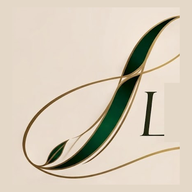
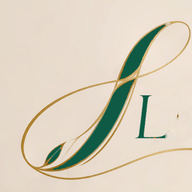
Новый логотип (вариант 10, золото) и тема по умолчанию: изумруд + золото, Playfair Display + Manrope
Логотип: буквы и рисунок прежние, меняются только цвета — лента «I», ILM и
надпись EDUCATIONAL PLATFORM изумрудом #0E5A44, ORA, линии и росток золотом.
Заменены все файлы brand/ под теми же именами: полный и обрезанный логотип,
картинка для ссылок (og-default), прозрачный знак для светлой и тёмной шапки,
значки 16–512 и favicon.

Тема по умолчанию (sample-data и globals.css): ivory #FBF3E3, forest #0E5A44,
charcoal #1D211C, champagne #CA9A36, sage #E3EDE6, white #FFFCF5; шрифты
Playfair Display + Manrope. На живом сайте тема берётся из Super Admin — там
значения нужно выставить вручную.

Мелкие доработки: цвета, зашитые в CSS (тени, стекло, градиент первого экрана,
полоса шагов), и золото меток скидок теперь берутся из темы; прежние фирменные
цвета в иллюстрациях, QR-коде, странице ошибки и цветах новых центров и
преподавателей заменены новыми. Каркас и тексты не менялись.

Claude-Session: https://claude.ai/code/session_013enQJNXUD777qyHkADyjY3

diff --git a/apps/web/app/globals.css b/apps/web/app/globals.css
@@ -2,19 +2,19 @@
 
 /* Runtime theme variables — set from Super Admin theme settings via applyTheme() */
 :root {
-  --c-ivory: #F7F5F0;
-  --c-forest: #163C35;
-  --c-charcoal: #202725;
-  --c-champagne: #C8AD7F;
-  --c-sage: #E3EBE5;
-  --c-white: #FFFFFF;
+  --c-ivory: #FBF3E3;
+  --c-forest: #0E5A44;
+  --c-charcoal: #1D211C;
+  --c-champagne: #CA9A36;
+  --c-sage: #E3EDE6;
+  --c-white: #FFFCF5;
   /* Self-hosted @fontsource family names (imported in app/[locale]/layout.tsx); previously set by next/font. */
   --font-cormorant: "Cormorant Garamond";
   --font-playfair: "Playfair Display Variable";
   --font-inter: "Inter Variable";
   --font-manrope: "Manrope Variable";
-  --f-display: var(--font-cormorant), "Cormorant Garamond", Georgia, serif;
-  --f-body: var(--font-inter), "Inter", system-ui, sans-serif;
+  --f-display: var(--font-playfair), "Playfair Display", Georgia, serif;
+  --f-body: var(--font-manrope), "Manrope", system-ui, sans-serif;
   --r-card: 1.25rem;
   --r-control: 0.75rem;
   --ease-out-soft: cubic-bezier(0.22, 0.68, 0.32, 1);
@@ -31,8 +31,8 @@
   --font-body: var(--f-body);
   --radius-card: var(--r-card);
   --radius-control: var(--r-control);
-  --shadow-soft: 0 1px 2px rgba(32, 39, 37, 0.04), 0 18px 50px -30px rgba(22, 60, 53, 0.35);
-  --shadow-lift: 0 2px 4px rgba(32, 39, 37, 0.05), 0 30px 70px -35px rgba(22, 60, 53, 0.45);
+  --shadow-soft: 0 1px 2px color-mix(in srgb, var(--c-charcoal) 4%, transparent), 0 18px 50px -30px color-mix(in srgb, var(--c-forest) 35%, transparent);
+  --shadow-lift: 0 2px 4px color-mix(in srgb, var(--c-charcoal) 5%, transparent), 0 30px 70px -35px color-mix(in srgb, var(--c-forest) 45%, transparent);
   --animate-rise: rise 0.7s cubic-bezier(0.2, 0.7, 0.2, 1) both;
   --animate-fade: fade 0.6s ease both;
   --animate-float: float 9s ease-in-out infinite;
@@ -208,7 +208,7 @@ html.reveal-on .reveal-stagger > .reveal:nth-child(n + 9) { --reveal-delay: 0.64
 
 /* Hero video fallback: slow drifting gradient in brand tones */
 .hero-fallback {
-  background: linear-gradient(120deg, #0f2a25, var(--c-forest), #2a5c50, #0f2a25);
+  background: linear-gradient(120deg, color-mix(in srgb, var(--c-forest) 55%, black), var(--c-forest), color-mix(in srgb, var(--c-forest) 82%, white), color-mix(in srgb, var(--c-forest) 55%, black));
   background-size: 300% 300%;
   animation: heroShift 18s ease infinite;
 }
@@ -252,25 +252,25 @@ html.reveal-on .reveal-stagger > .reveal:nth-child(n + 9) { --reveal-delay: 0.64
    Luxury UI Enhancements
    ─────────────────────────────────────────────────────────────────────────── */
 .glass-panel {
-  background: rgba(247, 245, 240, 0.72);
+  background: color-mix(in srgb, var(--c-ivory) 72%, transparent);
   backdrop-filter: blur(16px);
   -webkit-backdrop-filter: blur(16px);
-  border: 1px solid rgba(200, 173, 127, 0.22);
+  border: 1px solid color-mix(in srgb, var(--c-champagne) 22%, transparent);
 }
 
 .glass-panel-dark {
-  background: rgba(32, 39, 37, 0.75);
+  background: color-mix(in srgb, var(--c-charcoal) 75%, transparent);
   backdrop-filter: blur(16px);
   -webkit-backdrop-filter: blur(16px);
-  border: 1px solid rgba(200, 173, 127, 0.25);
+  border: 1px solid color-mix(in srgb, var(--c-champagne) 25%, transparent);
 }
 
 .glow-champagne {
-  box-shadow: 0 0 35px -8px rgba(200, 173, 127, 0.28);
+  box-shadow: 0 0 35px -8px color-mix(in srgb, var(--c-champagne) 28%, transparent);
 }
 
 .glow-forest {
-  box-shadow: 0 0 40px -10px rgba(22, 60, 53, 0.35);
+  box-shadow: 0 0 40px -10px color-mix(in srgb, var(--c-forest) 35%, transparent);
 }
 
 .luxury-border {
@@ -278,7 +278,7 @@ html.reveal-on .reveal-stagger > .reveal:nth-child(n + 9) { --reveal-delay: 0.64
   background-clip: padding-box, border-box;
   background-origin: padding-box, border-box;
   background-image: linear-gradient(to right, var(--c-white), var(--c-ivory)),
-                    linear-gradient(135deg, rgba(200, 173, 127, 0.5), rgba(22, 60, 53, 0.15), rgba(200, 173, 127, 0.35));
+                    linear-gradient(135deg, color-mix(in srgb, var(--c-champagne) 50%, transparent), color-mix(in srgb, var(--c-forest) 15%, transparent), color-mix(in srgb, var(--c-champagne) 35%, transparent));
 }
 
 @keyframes shimmer {

diff --git a/apps/web/src/components/three/ScrollVideo.tsx b/apps/web/src/components/three/ScrollVideo.tsx
@@ -153,31 +153,31 @@ function PosterIllustration({ progress, poster }: { progress: number; poster?: s
     { d: 'M 300 322 L 300 130', from: 0.5, to: 0.65 },
     { d: 'M 420 322 L 420 130', from: 0.55, to: 0.7 },
     { d: 'M 290 130 L 430 130 L 430 200 L 290 200 Z', from: 0.7, to: 0.88, w: 2.2 },
-    { d: 'M 300 420 L 420 420', from: 0.86, to: 0.95, c: '#C8AD7F', w: 2.4 },
-    { d: 'M 560 420 L 680 420', from: 0.88, to: 0.97, c: '#C8AD7F', w: 2.4 },
+    { d: 'M 300 420 L 420 420', from: 0.86, to: 0.95, c: '#CA9A36', w: 2.4 },
+    { d: 'M 560 420 L 680 420', from: 0.88, to: 0.97, c: '#CA9A36', w: 2.4 },
   ]
   if (poster) return null
   return (
     <svg viewBox="0 0 960 600" className="absolute inset-0 h-full w-full" preserveAspectRatio="xMidYMid slice" aria-hidden="true">
       <defs>
-        <pattern id="grid" width="40" height="40" patternUnits="userSpaceOnUse"><path d="M40 0H0v40" fill="none" stroke="#F7F5F0" strokeOpacity="0.05" /></pattern>
+        <pattern id="grid" width="40" height="40" patternUnits="userSpaceOnUse"><path d="M40 0H0v40" fill="none" stroke="#FBF3E3" strokeOpacity="0.05" /></pattern>
       </defs>
       <rect width="960" height="600" fill="url(#grid)" />
-      <line x1="120" y1="520" x2="860" y2="520" stroke="#C8AD7F" strokeOpacity="0.35" />
+      <line x1="120" y1="520" x2="860" y2="520" stroke="#CA9A36" strokeOpacity="0.35" />
       {strokes.map((s, i) => {
         const k = seg(s.from, s.to)
-        return <path key={i} d={s.d} fill="none" stroke={s.c ?? '#F7F5F0'} strokeWidth={s.w ?? 1.6} strokeLinecap="round" pathLength={1} strokeDasharray="1" strokeDashoffset={1 - k} opacity={0.5 + k * 0.5} />
+        return <path key={i} d={s.d} fill="none" stroke={s.c ?? '#FBF3E3'} strokeWidth={s.w ?? 1.6} strokeLinecap="round" pathLength={1} strokeDasharray="1" strokeDashoffset={1 - k} opacity={0.5 + k * 0.5} />
       })}
-      <g opacity={seg(0.35, 0.5)} stroke="#C8AD7F" strokeWidth="1">
+      <g opacity={seg(0.35, 0.5)} stroke="#CA9A36" strokeWidth="1">
         <path d="M 280 560 L 700 560 M 280 552 L 280 568 M 700 552 L 700 568" />
-        <text x="490" y="585" fill="#C8AD7F" fontSize="14" textAnchor="middle" fontFamily="Inter, sans-serif">420 mm</text>
+        <text x="490" y="585" fill="#CA9A36" fontSize="14" textAnchor="middle" fontFamily="Inter, sans-serif">420 mm</text>
       </g>
-      <g opacity={seg(0.7, 0.9)} stroke="#C8AD7F" strokeWidth="1">
+      <g opacity={seg(0.7, 0.9)} stroke="#CA9A36" strokeWidth="1">
         <path d="M 760 130 L 760 520 M 752 130 L 768 130 M 752 520 L 768 520" />
-        <text x="790" y="330" fill="#C8AD7F" fontSize="14" fontFamily="Inter, sans-serif">890 mm</text>
+        <text x="790" y="330" fill="#CA9A36" fontSize="14" fontFamily="Inter, sans-serif">890 mm</text>
       </g>
-      <circle cx="300" cy="420" r={4 * seg(0.86, 0.95)} fill="#C8AD7F" />
-      <circle cx="420" cy="420" r={4 * seg(0.86, 0.95)} fill="#C8AD7F" />
+      <circle cx="300" cy="420" r={4 * seg(0.86, 0.95)} fill="#CA9A36" />
+      <circle cx="420" cy="420" r={4 * seg(0.86, 0.95)} fill="#CA9A36" />
     </svg>
   )
 }

diff --git a/apps/web/src/components/three/Scene3D.tsx b/apps/web/src/components/three/Scene3D.tsx
@@ -50,20 +50,20 @@ function StaticIllustration({ kind }: { kind: 'studio' | 'assembly' }) {
   return (
     <svg viewBox="0 0 400 300" className="h-full w-full" aria-hidden="true">
       <defs>
-        <linearGradient id="fl" x1="0" x2="1" y1="0" y2="1"><stop offset="0" stopColor="#E3EBE5" /><stop offset="1" stopColor="#F7F5F0" /></linearGradient>
+        <linearGradient id="fl" x1="0" x2="1" y1="0" y2="1"><stop offset="0" stopColor="#E3EDE6" /><stop offset="1" stopColor="#FBF3E3" /></linearGradient>
       </defs>
       <rect width="400" height="300" fill="url(#fl)" />
-      <ellipse cx="200" cy="245" rx="150" ry="14" fill="#163C35" opacity="0.08" />
+      <ellipse cx="200" cy="245" rx="150" ry="14" fill="#0E5A44" opacity="0.08" />
       {kind === 'studio' ? (
-        <g stroke="#163C35" strokeWidth="1.6" fill="none" strokeLinecap="round">
+        <g stroke="#0E5A44" strokeWidth="1.6" fill="none" strokeLinecap="round">
           <rect x="90" y="150" width="220" height="10" rx="2" fill="#A67C52" stroke="none" />
           <path d="M100 160v70M300 160v70M110 160v70M290 160v70" />
-          <rect x="220" y="128" width="46" height="22" rx="2" fill="#163C35" stroke="none" />
-          <rect x="222" y="120" width="46" height="8" rx="2" fill="#C8AD7F" stroke="none" />
+          <rect x="220" y="128" width="46" height="22" rx="2" fill="#0E5A44" stroke="none" />
+          <rect x="222" y="120" width="46" height="8" rx="2" fill="#CA9A36" stroke="none" />
           <path d="M120 150v-58M120 92l30 12" />
-          <path d="M150 104l-18 8 8 4z" fill="#163C35" />
+          <path d="M150 104l-18 8 8 4z" fill="#0E5A44" />
           <rect x="150" y="60" width="110" height="60" rx="4" fill="#FFFFFF" />
-          <path d="M162 76h44M162 88h70M162 100h56" stroke="#C8AD7F" strokeWidth="3" />
+          <path d="M162 76h44M162 88h70M162 100h56" stroke="#CA9A36" strokeWidth="3" />
         </g>
       ) : (
         <g stroke="#6B4F3A" strokeWidth="6" fill="none" strokeLinecap="round">
@@ -71,7 +71,7 @@ function StaticIllustration({ kind }: { kind: 'studio' | 'assembly' }) {
           <rect x="130" y="150" width="140" height="12" rx="2" fill="#A67C52" stroke="none" />
           <path d="M140 150V60M170 150V60" />
           <rect x="132" y="60" width="46" height="30" rx="3" fill="#A67C52" stroke="none" />
-          <path d="M140 200h30" stroke="#C8AD7F" />
+          <path d="M140 200h30" stroke="#CA9A36" />
         </g>
       )}
     </svg>

diff --git a/apps/web/src/components/course/DiscountShowcase.tsx b/apps/web/src/components/course/DiscountShowcase.tsx
@@ -17,7 +17,7 @@ export function SaleRibbon({ percent, className }: { percent?: number; className
   const { t, lang } = useT()
   return (
     // `relative` positions the sweep; a caller placing the ribbon passes `absolute` instead (both together would clash).
-    <span className={cx('sale-ribbon inline-flex items-center gap-1 overflow-hidden rounded-full', className?.includes('absolute') ? '' : 'relative', 'sale-badge border border-[#a8842f]/50 bg-gradient-to-r from-[#b8923d] via-champagne to-[#ecdcb2] px-2.5 py-0.5 text-[10px] font-bold uppercase tracking-[0.2em] text-forest', className)}>
+    <span className={cx('sale-ribbon inline-flex items-center gap-1 overflow-hidden rounded-full', className?.includes('absolute') ? '' : 'relative', 'sale-badge border border-champagne/50 bg-gradient-to-r from-[color-mix(in_srgb,var(--c-champagne)_80%,black)] via-champagne to-[color-mix(in_srgb,var(--c-champagne)_40%,white)] px-2.5 py-0.5 text-[10px] font-bold uppercase tracking-[0.2em] text-forest', className)}>
       {t('offers.sale')}
       {percent ? <span className="tracking-normal text-forest/85">−{formatPercent(percent, lang)}%</span> : null}
     </span>
@@ -97,7 +97,7 @@ export function DiscountShowcase({ courses, title, subtitle }: { courses: Course
         <div className="mb-8 flex flex-col gap-6 lg:flex-row lg:items-end lg:justify-between">
           <div className="max-w-2xl">
             <div className="flex flex-wrap items-center gap-3">
-              <span className="sale-badge inline-flex items-center gap-2 rounded-full border border-[#a8842f]/40 bg-gradient-to-r from-[#c9a557] via-champagne to-[#ecdcb2] px-3.5 py-1.5 text-[11px] font-bold uppercase tracking-[0.18em] text-forest">
+              <span className="sale-badge inline-flex items-center gap-2 rounded-full border border-champagne/40 bg-gradient-to-r from-[color-mix(in_srgb,var(--c-champagne)_88%,black)] via-champagne to-[color-mix(in_srgb,var(--c-champagne)_40%,white)] px-3.5 py-1.5 text-[11px] font-bold uppercase tracking-[0.18em] text-forest">
                 <Icon name="star" className="h-3.5 w-3.5" />
                 {t('discounts.upTo', { n: formatPercent(maxPercent, lang) })}
               </span>

diff --git a/apps/web/src/views/public/TeacherChannel.tsx b/apps/web/src/views/public/TeacherChannel.tsx
@@ -58,9 +58,9 @@ export function TeacherChannelPage() {
   return (
     <div className="animate-fade">
       {/* Banner */}
-      <div className="relative h-44 md:h-64" style={{ background: teacher.bannerUpload?.previewUrl ? `url(${teacher.bannerUpload.previewUrl}) center/cover` : teacher.bannerUrl ? `url(${teacher.bannerUrl}) center/cover` : `linear-gradient(110deg, ${teacher.bannerTone} 0%, ${teacher.bannerTone}dd 55%, #C8AD7F66 100%)` }}>
+      <div className="relative h-44 md:h-64" style={{ background: teacher.bannerUpload?.previewUrl ? `url(${teacher.bannerUpload.previewUrl}) center/cover` : teacher.bannerUrl ? `url(${teacher.bannerUrl}) center/cover` : `linear-gradient(110deg, ${teacher.bannerTone} 0%, ${teacher.bannerTone}dd 55%, #CA9A3666 100%)` }}>
         <svg className="absolute inset-0 h-full w-full opacity-30" viewBox="0 0 800 200" preserveAspectRatio="xMidYMid slice" aria-hidden="true">
-          {Array.from({ length: 6 }).map((_, i) => <path key={i} d={`M -20 ${30 + i * 32} C 200 ${i * 20}, 500 ${120 + i * 10}, 820 ${20 + i * 30}`} fill="none" stroke="#F7F5F0" strokeWidth="0.7" />)}
+          {Array.from({ length: 6 }).map((_, i) => <path key={i} d={`M -20 ${30 + i * 32} C 200 ${i * 20}, 500 ${120 + i * 10}, 820 ${20 + i * 30}`} fill="none" stroke="#FBF3E3" strokeWidth="0.7" />)}
         </svg>
         {!teacher.channelActive && <div className="absolute left-4 top-4"><Badge tone="warn">{t('teachers.channelInactive')}</Badge></div>}
       </div>

diff --git a/apps/web/src/views/public/TemplatePages.tsx b/apps/web/src/views/public/TemplatePages.tsx
@@ -440,7 +440,7 @@ function TeachersSection({ s }: { s: Section }) {
         <SnapTrack prevLabel={t('home.prev')} nextLabel={t('home.next')} className="reveal-stagger">
           {teachers.map((te) => (
             <Link key={te.id} to={`/teachers/${te.id}`} className="reveal card group w-[260px] overflow-hidden p-0 transition duration-500 hover:-translate-y-1 hover:shadow-lift sm:w-[280px]">
-              <div className="h-24 transition duration-700 group-hover:brightness-110" style={{ background: te.bannerUpload?.previewUrl ? `url(${te.bannerUpload.previewUrl}) center/cover` : te.bannerUrl ? `url(${te.bannerUrl}) center/cover` : `linear-gradient(120deg, ${te.bannerTone}, ${te.bannerTone}cc 60%, #C8AD7F55)` }} />
+              <div className="h-24 transition duration-700 group-hover:brightness-110" style={{ background: te.bannerUpload?.previewUrl ? `url(${te.bannerUpload.previewUrl}) center/cover` : te.bannerUrl ? `url(${te.bannerUrl}) center/cover` : `linear-gradient(120deg, ${te.bannerTone}, ${te.bannerTone}cc 60%, #CA9A3655)` }} />
               <div className="-mt-8 px-5 pb-5">
                 <Avatar name={te.name} seed={te.avatarSeed} size={60} url={getTeacherAvatarUrl(te)} alt={te.name} className="ring-4 ring-paper" />
                 <div className="mt-3 font-display text-2xl text-charcoal group-hover:text-forest">{te.name}</div>

diff --git a/apps/web/app/global-error.tsx b/apps/web/app/global-error.tsx
@@ -4,12 +4,12 @@
 export default function GlobalError({ error, reset }: { error: Error & { digest?: string }; reset: () => void }) {
   return (
     <html lang="uz">
-      <body style={{ fontFamily: 'system-ui, sans-serif', background: '#F7F5F0', color: '#202725', margin: 0 }}>
+      <body style={{ fontFamily: 'system-ui, sans-serif', background: '#FBF3E3', color: '#1D211C', margin: 0 }}>
         <div style={{ maxWidth: 520, margin: '15vh auto', padding: 32, textAlign: 'center' }}>
           <h1 style={{ fontWeight: 500 }}>ILMORA</h1>
           <p>Xatolik yuz berdi · Произошла ошибка · Something went wrong</p>
           {error.digest && <p style={{ fontSize: 12, opacity: 0.6 }}>ref: {error.digest}</p>}
-          <button type="button" onClick={reset} style={{ marginTop: 16, padding: '10px 20px', borderRadius: 10, border: 0, background: '#163C35', color: '#F7F5F0' }}>Qayta uriniş · Повторить · Try again</button>
+          <button type="button" onClick={reset} style={{ marginTop: 16, padding: '10px 20px', borderRadius: 10, border: 0, background: '#0E5A44', color: '#FBF3E3' }}>Qayta uriniş · Повторить · Try again</button>
         </div>
       </body>
     </html>

diff --git a/apps/web/src/components/ui/index.tsx b/apps/web/src/components/ui/index.tsx
@@ -297,12 +297,12 @@ export function Segmented<T extends string>({ options, value, onChange, size = '
 
 // ─── Generated cover art (no external imagery; deterministic per seed) ───────
 const PALETTES = [
-  ['#163C35', '#4E6E68', '#C8AD7F'],
-  ['#6B4F3A', '#A67C52', '#E3EBE5'],
-  ['#202725', '#163C35', '#C8AD7F'],
-  ['#8A9A7B', '#163C35', '#F7F5F0'],
-  ['#4E6E68', '#E3EBE5', '#C8AD7F'],
-  ['#A67C52', '#F7F5F0', '#163C35'],
+  ['#0E5A44', '#4E6E68', '#CA9A36'],
+  ['#6B4F3A', '#A67C52', '#E3EDE6'],
+  ['#1D211C', '#0E5A44', '#CA9A36'],
+  ['#8A9A7B', '#0E5A44', '#FBF3E3'],
+  ['#4E6E68', '#E3EDE6', '#CA9A36'],
+  ['#A67C52', '#FBF3E3', '#0E5A44'],
 ]
 
 export function ArtCover({ seed, className, label, imageUrl, alt = '', tone }: { seed: number; className?: string; label?: string; imageUrl?: string; alt?: string; tone?: string }) {
@@ -403,7 +403,7 @@ export function Avatar({
         width: size,
         height: size,
         fontSize: Math.max(12, size * 0.38),
-        background: 'linear-gradient(145deg, #E3EBE5 0%, #D5E1D8 100%)',
+        background: 'linear-gradient(145deg, #E3EDE6 0%, #D5E1D8 100%)',
       }}
     >
       {ini || (

diff --git a/apps/web/src/views/admin/AdminCenters.tsx b/apps/web/src/views/admin/AdminCenters.tsx
@@ -47,7 +47,7 @@ export function AdminCenters() {
       <div className="mb-8"><PendingCentersPanel list={list} busy={busy} setStatus={setStatus} reviewName={reviewName} /></div>
       <div className="grid gap-8 lg:grid-cols-2">
         <section>
-          <div className="mb-3 flex items-center justify-between"><Eyebrow>{t('common.centers')} · {list?.length ?? 0}</Eyebrow><Button size="sm" onClick={() => setCenter({ id: uid('ce'), name: '', district: emptyL(), description: emptyL(), tone: '#163C35' })}><Icon name="plus" className="h-3.5 w-3.5" />{t('admin.centers.addCenter')}</Button></div>
+          <div className="mb-3 flex items-center justify-between"><Eyebrow>{t('common.centers')} · {list?.length ?? 0}</Eyebrow><Button size="sm" onClick={() => setCenter({ id: uid('ce'), name: '', district: emptyL(), description: emptyL(), tone: '#0E5A44' })}><Icon name="plus" className="h-3.5 w-3.5" />{t('admin.centers.addCenter')}</Button></div>
           <ul className="space-y-2">
             {(list ?? []).map((c) => (
               <li key={c.id} className="card p-3">

diff --git a/apps/web/src/views/admin/AdminPeople.tsx b/apps/web/src/views/admin/AdminPeople.tsx
@@ -45,7 +45,7 @@ export function AdminPeople() {
   }, [query, lang, notify])
   useEffect(() => { void loadStudents(1) }, [loadStudents])
 
-  const newTeacher = (): Teacher => ({ id: uid('t'), name: '', title: emptyL(), bio: emptyL(), expertise: [], centerId: s.centers[0]?.id ?? '', avatarSeed: Math.floor(Math.random() * 60), bannerTone: '#163C35', tagline: emptyL(), channelActive: false })
+  const newTeacher = (): Teacher => ({ id: uid('t'), name: '', title: emptyL(), bio: emptyL(), expertise: [], centerId: s.centers[0]?.id ?? '', avatarSeed: Math.floor(Math.random() * 60), bannerTone: '#0E5A44', tagline: emptyL(), channelActive: false })
   // Impersonation is not available in production; admins open the public channel instead.
   const actAs = (role: 'teacher' | 'student', id: string) => { if (role === 'teacher') window.location.assign(siteHref(lang, `/teachers/${id}`)) }
   // Dialogs close and report "Saved" only once the API has answered; the store toasts the error otherwise.

diff --git a/apps/web/src/components/course/CourseCard.tsx b/apps/web/src/components/course/CourseCard.tsx
@@ -155,7 +155,7 @@ export function CourseCard({ course, showInternal, compact }: { course: Course; 
       )}
       style={{ padding: 0 }}
     >
-      {salePercent > 0 && <span className="pointer-events-none absolute inset-x-0 top-0 z-20 h-1 bg-gradient-to-r from-[#b8923d] via-champagne to-[#b8923d]" aria-hidden="true" />}
+      {salePercent > 0 && <span className="pointer-events-none absolute inset-x-0 top-0 z-20 h-1 bg-gradient-to-r from-[color-mix(in_srgb,var(--c-champagne)_80%,black)] via-champagne to-[color-mix(in_srgb,var(--c-champagne)_80%,black)]" aria-hidden="true" />}
       {/* Top Cover Media: Editorial photographic representation */}
       <Link to={`/courses/${course.id}`} className="block relative overflow-hidden focus-visible:outline-offset-[-3px] bg-sage/20">
         <div className={cx('relative overflow-hidden', compact ? 'aspect-[16/8]' : 'aspect-[16/10]')}>

diff --git a/apps/web/src/lib/theme.ts b/apps/web/src/lib/theme.ts
@@ -23,8 +23,8 @@ export function applyTheme(theme: Theme) {
   root.style.setProperty('--c-champagne', c.champagne)
   root.style.setProperty('--c-sage', c.sage)
   root.style.setProperty('--c-white', c.white)
-  root.style.setProperty('--f-display', FONT_STACK[theme.fonts.display] ?? FONT_STACK['Cormorant Garamond'])
-  root.style.setProperty('--f-body', FONT_STACK[theme.fonts.body] ?? FONT_STACK.Inter)
+  root.style.setProperty('--f-display', FONT_STACK[theme.fonts.display] ?? FONT_STACK['Playfair Display'])
+  root.style.setProperty('--f-body', FONT_STACK[theme.fonts.body] ?? FONT_STACK.Manrope)
   const r = RADIUS[theme.radius] ?? RADIUS.soft
   root.style.setProperty('--r-card', r.card)
   root.style.setProperty('--r-control', r.control)
